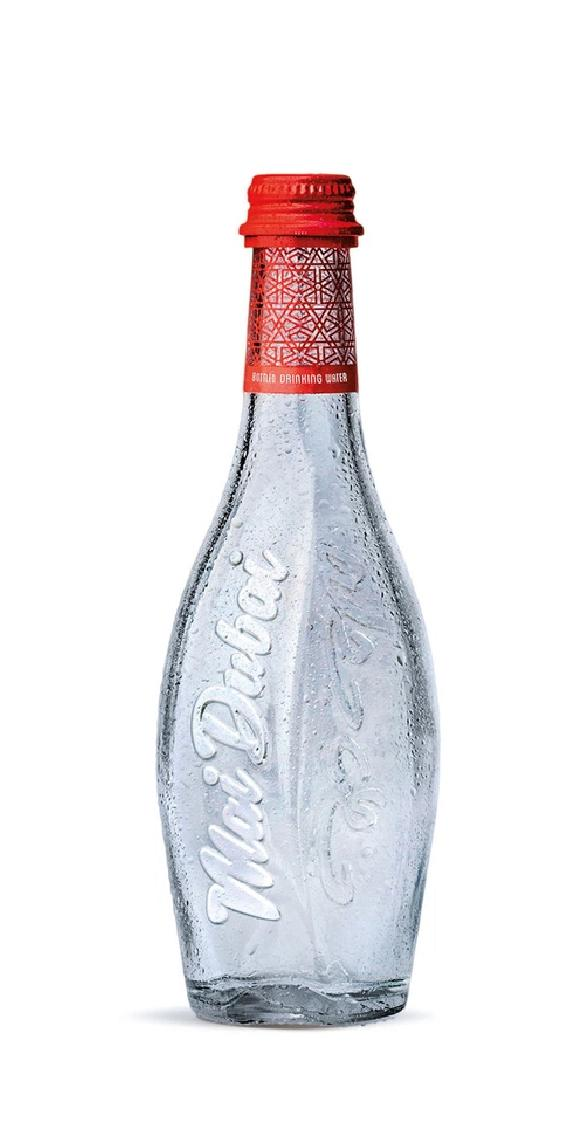
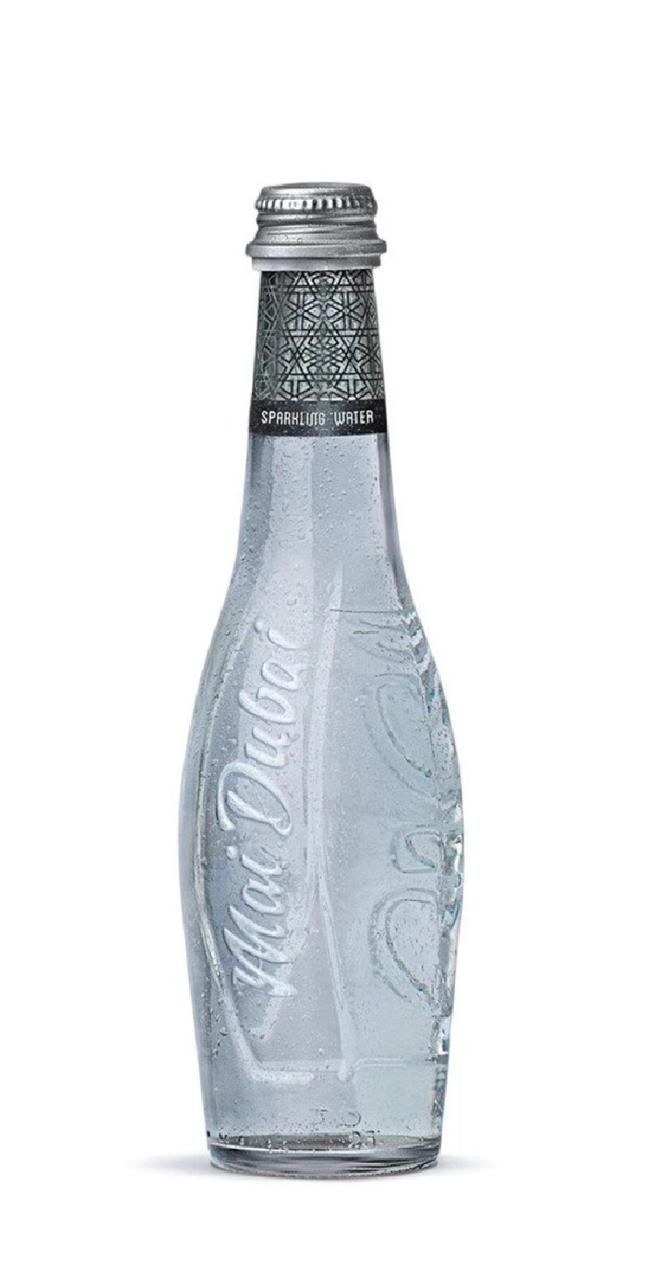
ass

Changed region(s): [[0.2453, 0.1221, 0.7666, 0.9459]]

diff --git a/src/menu/menuapi.js b/src/menu/menuapi.js
@@ -208,14 +208,14 @@ const menuapi = [
         name: "Mango Milk Shake",
         price: 33,
         categrory: "Juice & Water",
-        img: '/images/mangojuice.jpg',
+        img: '/images/mangoshake.jpg',
         
     },
     {
-        name: "Water",
-        price: 5,
+        name: "Sparkling  Water ",
+        price: 10,
         categrory: "Juice & Water",
-        img: '/images/maydubaiw.jpg',
+        img: '/images/sparkling1.jpeg',
 
     },
     {
@@ -527,7 +527,7 @@ const menuapi = [
         name: "Frappuccino",
         price: 33,
         categrory: "Juice & Water",
-        img: "/images/pa8.jpg",
+        img: "/images/frap.jpg",
           },
      {
             name: "San Sebastián cheesecake",
@@ -552,6 +552,12 @@ const menuapi = [
     price: 180,
     categrory: "Cake",
     img: "/images/cake1.jpg",
+},  
+{
+    name: "Mango Cheese cake",
+    price: 180,
+    categrory: "Cake",
+    img: "/images/mangocheesecake.jpeg",
 },  
 ]
 
